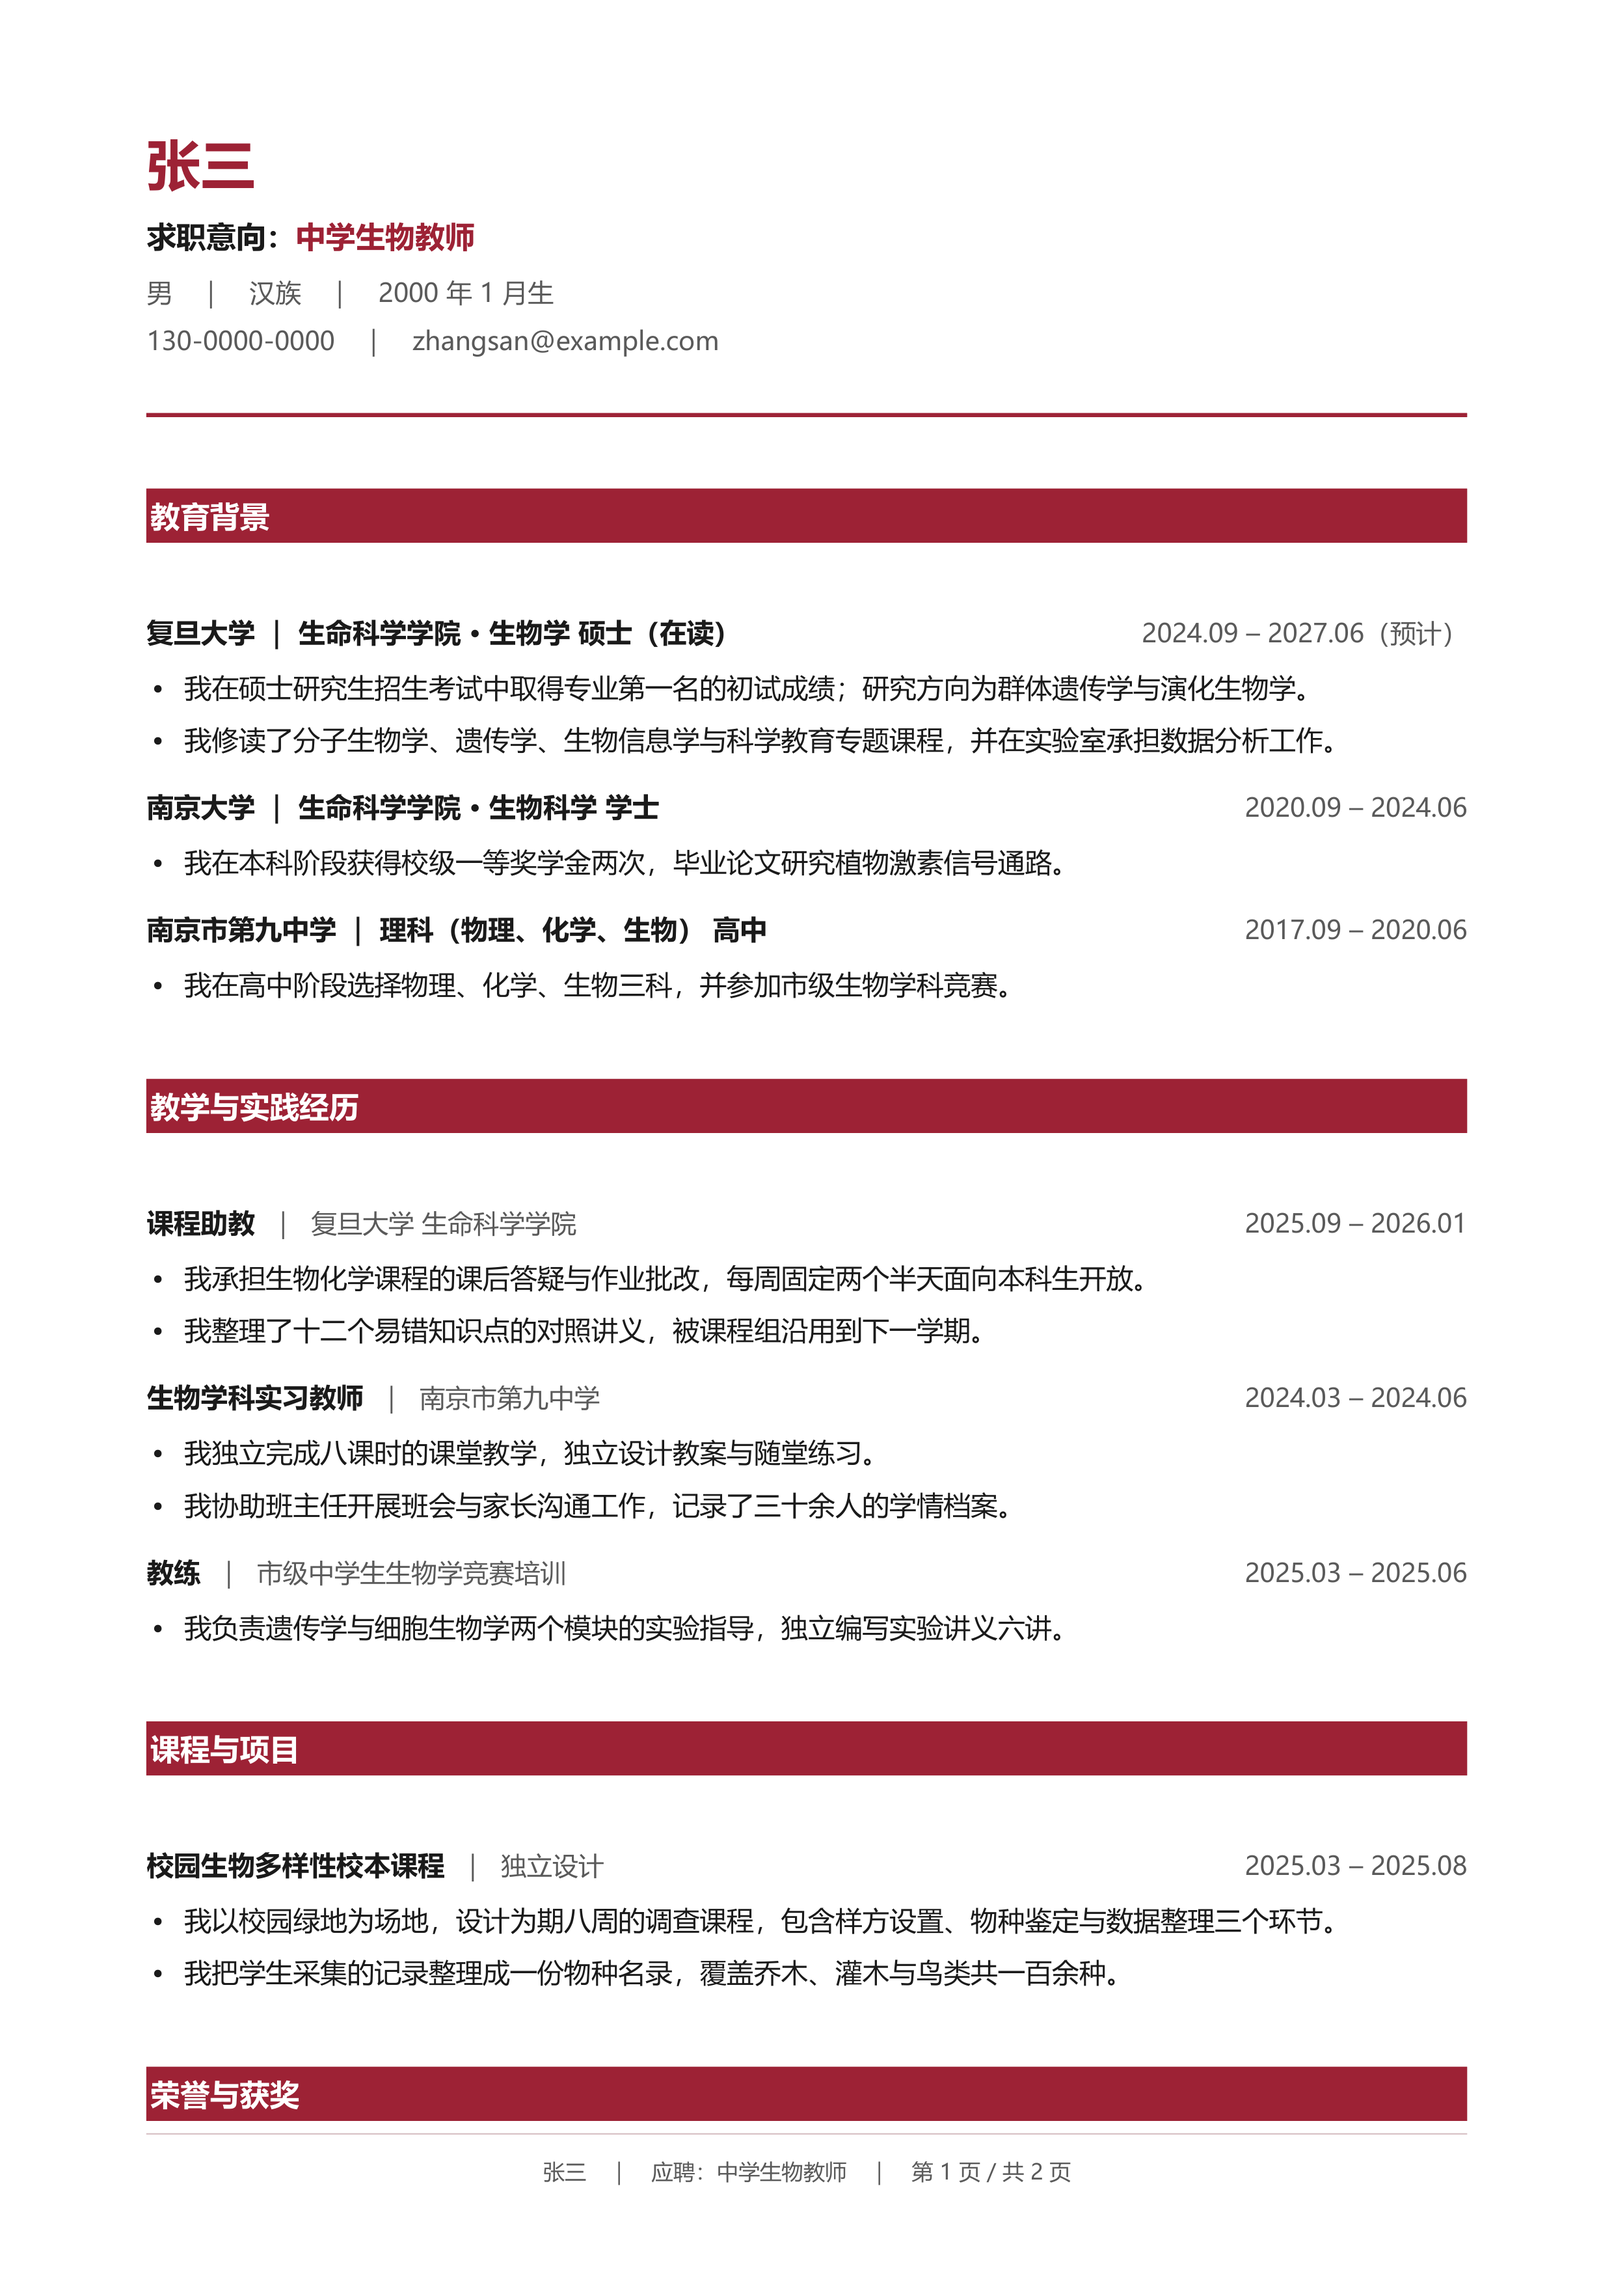
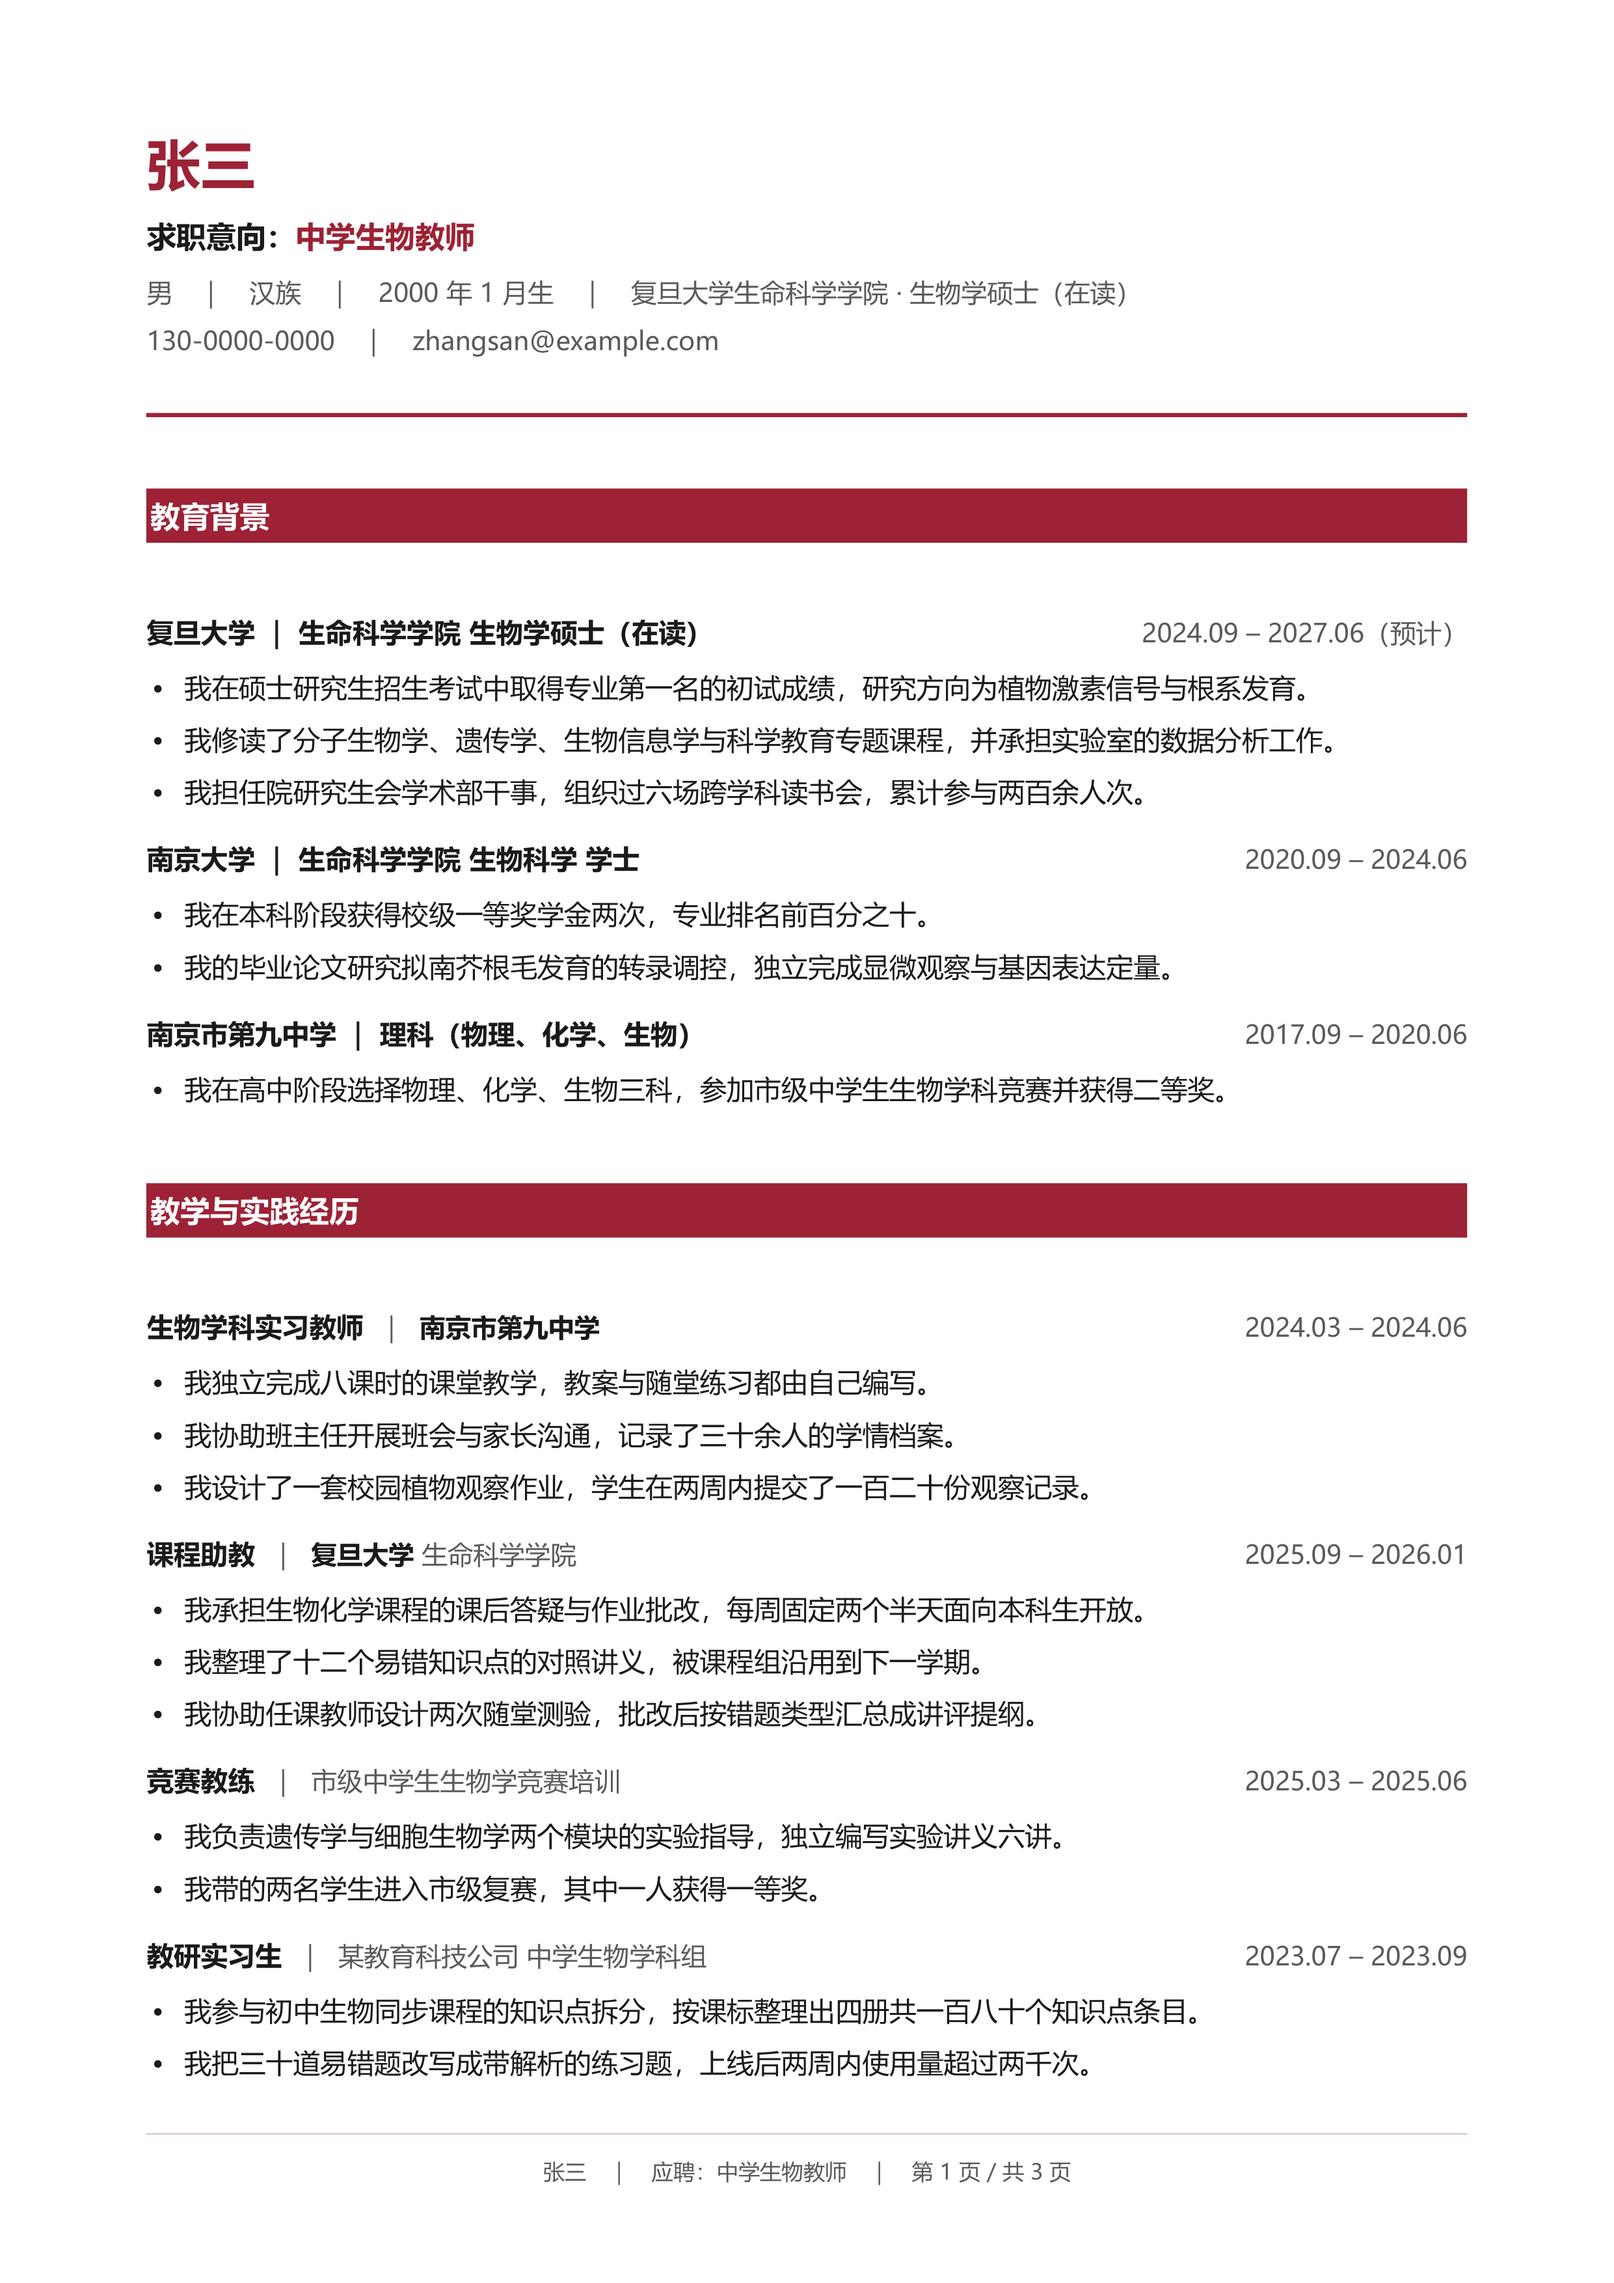
docs: 示例数据扩充为四个行业场景，预览与变体图按新数据重生成

diff --git a/README.md b/README.md
@@ -51,6 +51,19 @@ node src/cli.js check --data my-resume --variant teacher-biology
 
 产物默认写到 `out/<数据目录>-<变体名>/`，可用 `--out` 指定。
 
+## 场景变体
+
+同一份信息可以生成面向不同行业的简历。下面四份出自同一份示例数据，差别在取哪些条目、按什么次序排。
+
+![四个场景的变体](docs/assets/variants.png)
+
+| 变体 | 面向岗位 | 取用重点 |
+|---|---|---|
+| `teacher-biology` | 中学教师 | 实习教学与课程项目排在前面 |
+| `edtech-curriculum` | 教研与课程设计 | 教研实习与数据能力排在前面 |
+| `scicomm-editor` | 科普编辑 | 写作经历与发表作品排在前面 |
+| `research-assistant` | 科研助理 | 助教经历与研究项目排在前面 |
+
 ## 数据格式
 
 `data/<目录>/resume.yaml`，字段名沿用 [JSON Resume](https://jsonresume.org)，中文场景的字段放在 `cn` 下。
